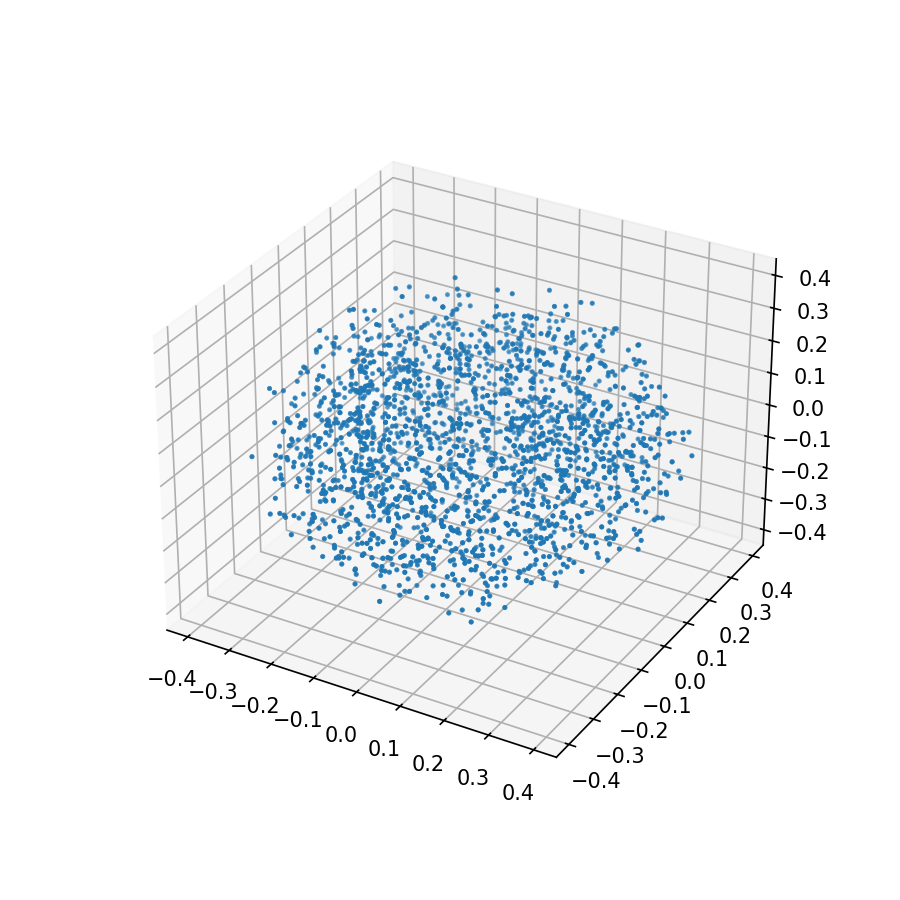
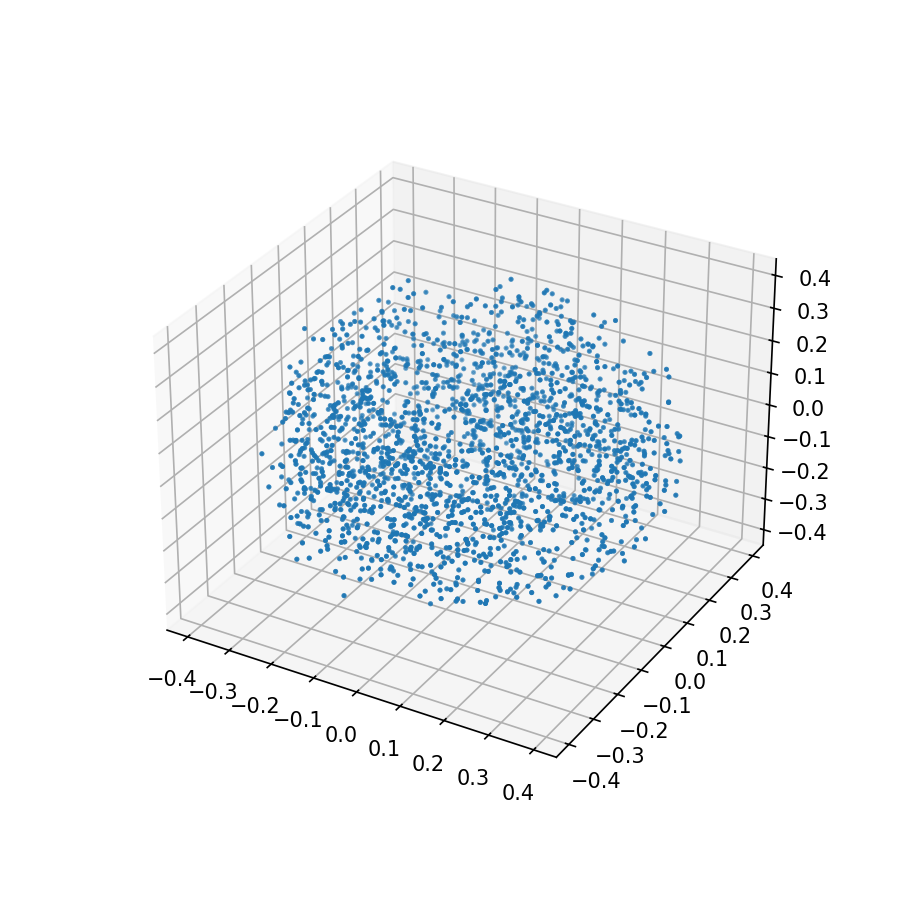
commit

Changed region(s): [[0.28, 0.3111, 0.7778, 0.6844]]

diff --git a/examples/run_live_animation.py b/examples/run_live_animation.py
@@ -45,7 +45,7 @@ def main(argv: Sequence[str] | None = None) -> None:
     parser = _build_parser()
     args = parser.parse_args(argv)
 
-    simulation = TokamakSimulation(max_time=5e-3, dt=2e-7, grid_shape=(20, 20, 20))
+    simulation = TokamakSimulation(max_time=5e-4, dt=5e-12, grid_shape=(24, 24, 24))
 
     def density_profile(r: float, z: float) -> float:
         return 5e19 * max(0.0, 1.0 - (r**2 + z**2) / simulation.minor_radius**2)
@@ -53,7 +53,7 @@ def main(argv: Sequence[str] | None = None) -> None:
     def temperature_profile(r: float, z: float) -> float:
         return 5e3 * max(0.1, 1.0 - 0.5 * (r**2 + z**2) / simulation.minor_radius**2)
 
-    simulation.initialise_plasma(density_profile, temperature_profile, macro_particles=4000)
+    simulation.initialise_plasma(density_profile, temperature_profile, macro_particles=2500)
     # Debug: print how many macro-particles were created and sample positions
     try:
         print(f"Initialized particles: {len(simulation.particles)}")
@@ -83,7 +83,12 @@ def main(argv: Sequence[str] | None = None) -> None:
         print('Failed to save initial snapshot:', e)
     controller = EnergyController(target_energy=8e4, critical_energy=1e5)
 
-    animator = TokamakAnimator(simulation, frame_interval=50, sample_particles=1000)
+    animator = TokamakAnimator(
+        simulation,
+        frame_interval=50,
+        sample_particles=1000,
+        steps_per_frame=80,
+    )
     animation = animator.animate(controller=controller, frames=args.frames)
 
     if args.save:

diff --git a/tokamak_sim/visualization.py b/tokamak_sim/visualization.py
@@ -14,12 +14,18 @@ from .simulation import TokamakSimulation
 
 @dataclass
 class TokamakAnimator:
-    """Render a 3-D scatter animation of simulation particle positions."""
+    """Render a 3-D scatter animation of simulation particle positions.
+
+    The `steps_per_frame` parameter lets the animation advance multiple
+    simulation steps between redraws, useful when the simulation uses
+    a very small `dt` for stability.
+    """
 
     simulation: TokamakSimulation
     frame_interval: int = 30
     sample_particles: int = 2000
     cmap: str = "viridis"
+    steps_per_frame: int = 1
 
     def animate(
         self,
@@ -79,7 +85,10 @@ class TokamakAnimator:
         def update(_frame: int):
             nonlocal scatter
 
-            if getattr(self.simulation, "abort_reason", None) is None:
+            steps_this_frame = max(1, int(self.steps_per_frame))
+            for _ in range(steps_this_frame):
+                if getattr(self.simulation, "abort_reason", None) is not None:
+                    break
                 self.simulation.step()
                 total_energy = float(getattr(self.simulation, "total_energy", 0.0))
                 power = controller_power(total_energy)
